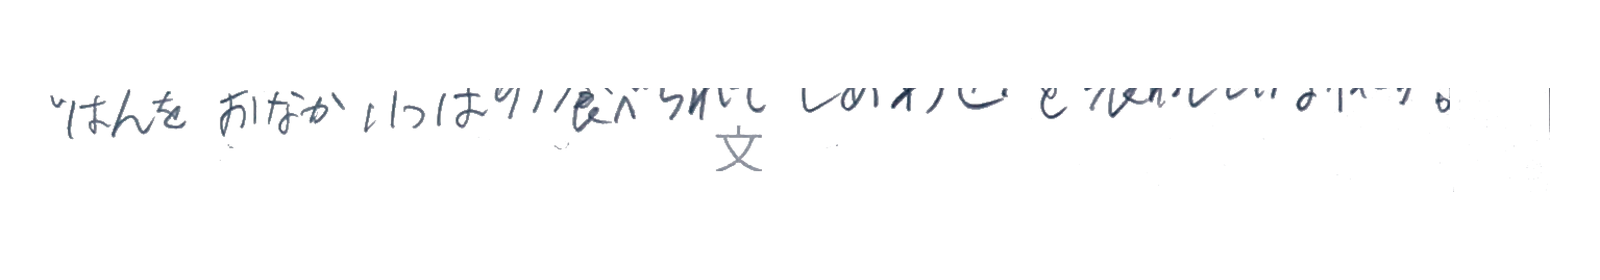
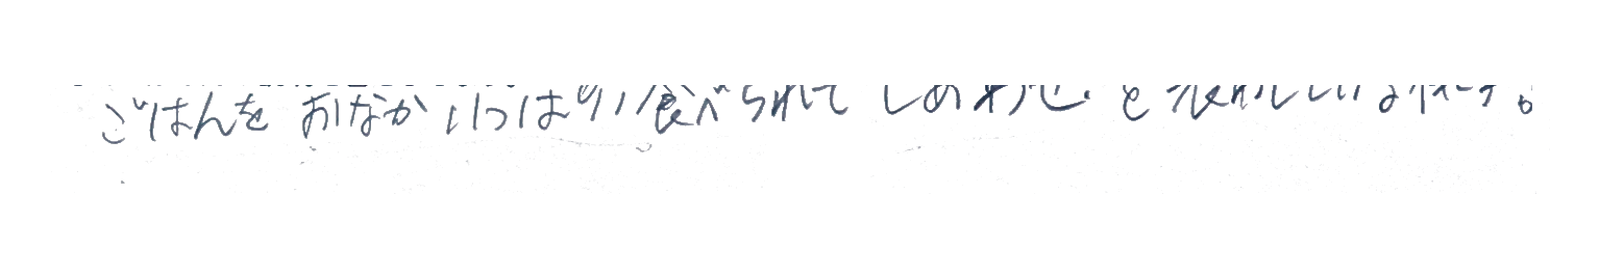
Fix missing title glyphs and complete notes

Changed region(s): [[0.0312, 0.2857, 0.9688, 0.6]]

diff --git a/index.html b/index.html
@@ -5,8 +5,8 @@
     <meta name="viewport" content="width=device-width, initial-scale=1" />
     <meta name="description" content="作品の中の小さな要素から、それぞれの平和をひらく。" />
     <title>平和とは — 無限の画布</title>
-    <link rel="stylesheet" href="styles.css?v=20261128-18" />
-    <script src="script.js?v=20261128-18" defer></script>
+    <link rel="stylesheet" href="styles.css?v=20261128-20" />
+    <script src="script.js?v=20261128-20" defer></script>
   </head>
   <body>
     <main

diff --git a/styles.css b/styles.css
@@ -2,6 +2,10 @@
   font-family: "Kodomo Rounded";
   src: url("assets/kodomo-rounded-light.woff2") format("woff2");
   font-display: swap;
+  /* This handmade face contains blank placeholders for unsupported kanji.
+     Restrict it to kana/punctuation so Japanese system fonts can supply every
+     title kanji instead of rendering an invisible glyph. */
+  unicode-range: U+0000-024F, U+3000-30FF, U+FF00-FFEF;
 }
 
 :root {

diff --git a/script.js b/script.js
@@ -80,7 +80,7 @@ const works = [
     title,
     artwork: `assets/day2-art-v2/${file.replace(/\.(jpg|png)$/i, ".jpg")}?v=3`,
     artworkAlt: `${title}を描いた作品`,
-    note: `assets/day2-notes-v2/${file.replace(/\.(jpg|png)$/i, ".png")}?v=3`,
+    note: `assets/day2-notes-v2/${file.replace(/\.(jpg|png)$/i, ".png")}?v=4`,
     noteAlt,
   })),
 ];
